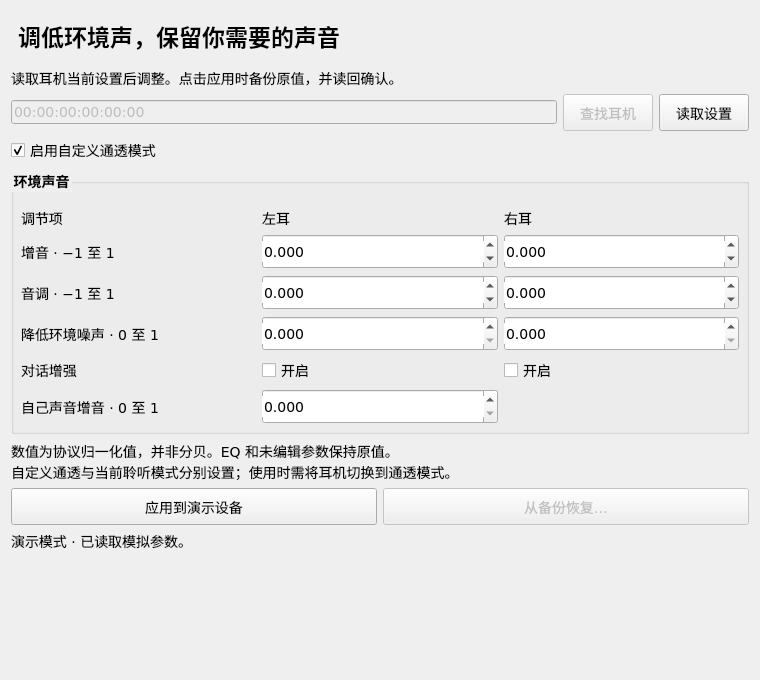
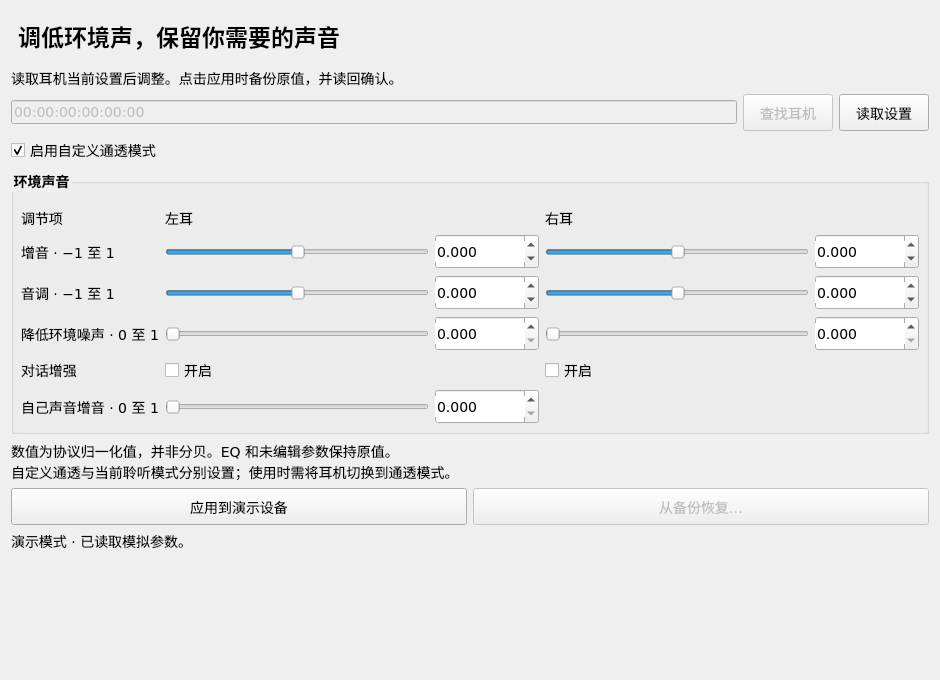
Add synchronized sliders alongside transparency numeric controls

diff --git a/airpods_transparency/gui.py b/airpods_transparency/gui.py
@@ -27,7 +27,7 @@ class Window(QtWidgets.QWidget):
     def __init__(self, mac=None, demo=False, transport="auto"):
         super().__init__()
         self.setWindowTitle("AirPods · 通透调节" + (" · 演示" if demo else ""))
-        self.resize(760, 680)
+        self.resize(940, 680)
         self.pool = ThreadPoolExecutor(max_workers=1)
         self.pending = None
         self.loaded = None
@@ -35,6 +35,7 @@ class Window(QtWidgets.QWidget):
         self.demo = demo
         self.transport = transport
         self.controls = {}
+        self.sliders = {}
         self.setStyleSheet("""
             QWidget { font-size: 14px; }
             QGroupBox { font-weight: 600; margin-top: 12px; padding-top: 16px; }
@@ -80,7 +81,8 @@ class Window(QtWidgets.QWidget):
                     widget.setRange(lo, hi)
                     widget.setSingleStep(0.05)
                     widget.setDecimals(3)
-                grid.addWidget(widget, row_index, column)
+                panel = widget if suffix == "conversation_boost" else self.with_slider(name, widget)
+                grid.addWidget(panel, row_index, column)
                 self.controls[name] = widget
         own = QtWidgets.QDoubleSpinBox()
         own.setRange(0, 1)
@@ -88,7 +90,7 @@ class Window(QtWidgets.QWidget):
         own.setDecimals(3)
         self.controls["own_voice"] = own
         grid.addWidget(QtWidgets.QLabel("自己声音增音 · 0 至 1"), 5, 0)
-        grid.addWidget(own, 5, 1)
+        grid.addWidget(self.with_slider("own_voice", own), 5, 1)
         layout.addWidget(self.group)
         note = QtWidgets.QLabel("数值为协议归一化值，并非分贝。EQ 和未编辑参数保持原值。\n"
                                "自定义通透与当前聆听模式分别设置；使用时需将耳机切换到通透模式。")
@@ -121,6 +123,26 @@ class Window(QtWidgets.QWidget):
         elif mac:
             QtCore.QTimer.singleShot(0, self.load)
 
+    def with_slider(self, name, spin):
+        panel = QtWidgets.QWidget()
+        row = QtWidgets.QHBoxLayout(panel)
+        row.setContentsMargins(0, 0, 0, 0)
+        slider = QtWidgets.QSlider(QtCore.Qt.Horizontal)
+        slider.setRange(round(spin.minimum() * 1000), round(spin.maximum() * 1000))
+        slider.setSingleStep(10)
+        slider.setPageStep(100)
+        slider.setMinimumWidth(100)
+        slider.setAccessibleName(name.replace("_", " "))
+        slider.setToolTip("拖动调节；点击“备份并应用”后写入耳机。")
+        slider.setValue(round(spin.value() * 1000))
+        slider.valueChanged.connect(lambda value: spin.setValue(value / 1000))
+        spin.valueChanged.connect(lambda value: slider.setValue(round(value * 1000)))
+        spin.setMaximumWidth(100)
+        row.addWidget(slider, 1)
+        row.addWidget(spin)
+        self.sliders[name] = slider
+        return panel
+
     def set_loaded(self, state):
         self.group.setEnabled(state)
         self.enabled.setEnabled(state)
@@ -152,7 +174,9 @@ class Window(QtWidgets.QWidget):
             self.status.setText(f"操作失败：{exc}\n请检查连接与 README 中的 DeviceID 配置，然后重新读取。")
         self.set_loaded(self.loaded is not None)
         if self.loaded:
-            self.controls["own_voice"].setEnabled("own_voice" in self.loaded.values())
+            available = "own_voice" in self.loaded.values()
+            self.controls["own_voice"].setEnabled(available)
+            self.sliders["own_voice"].setEnabled(available)
 
     def find(self):
         def found(result):

diff --git a/tests/gui_smoke.py b/tests/gui_smoke.py
@@ -29,7 +29,11 @@ def test_demo_load_apply_and_preserve_rounding():
     window.controller.settings = Settings(bytes(buf))
     window.populate(window.controller.read())
     assert window.edited_values() == {}
-    window.controls["left_amplification"].setValue(-0.3)
+    assert window.sliders["left_tone"].value() == 123
+    window.sliders["left_amplification"].setValue(-300)
+    assert window.controls["left_amplification"].value() == -0.3
+    window.controls["right_noise_reduction"].setValue(0.25)
+    assert window.sliders["right_noise_reduction"].value() == 250
     window.apply()
     drain(app, window)
     assert abs(window.loaded.values()["left_amplification"] + 0.3) < 1e-6

diff --git a/README.md b/README.md
@@ -31,6 +31,7 @@ Ubuntu 如果缺少 venv：先安装 `python3-venv`。仅使用命令行可将 `
 精简系统上 Qt 界面可能还需要系统运行库：`sudo apt install libegl1 libxcb-cursor0`。
 
 界面：输入或查找耳机地址 → 读取设置 → 调整 → 备份并应用。
+每项数值提供拖动滑条和精确输入框，双向同步；拖动只编辑界面，点击应用后才写入耳机。
 “启用自定义通透模式”控制自定义参数是否启用；耳机当前聆听模式仍需切换到**通透**，
 可以使用耳柄的长按操作。工具暂不切换降噪/通透模式，也不负责蓝牙配对。
 
